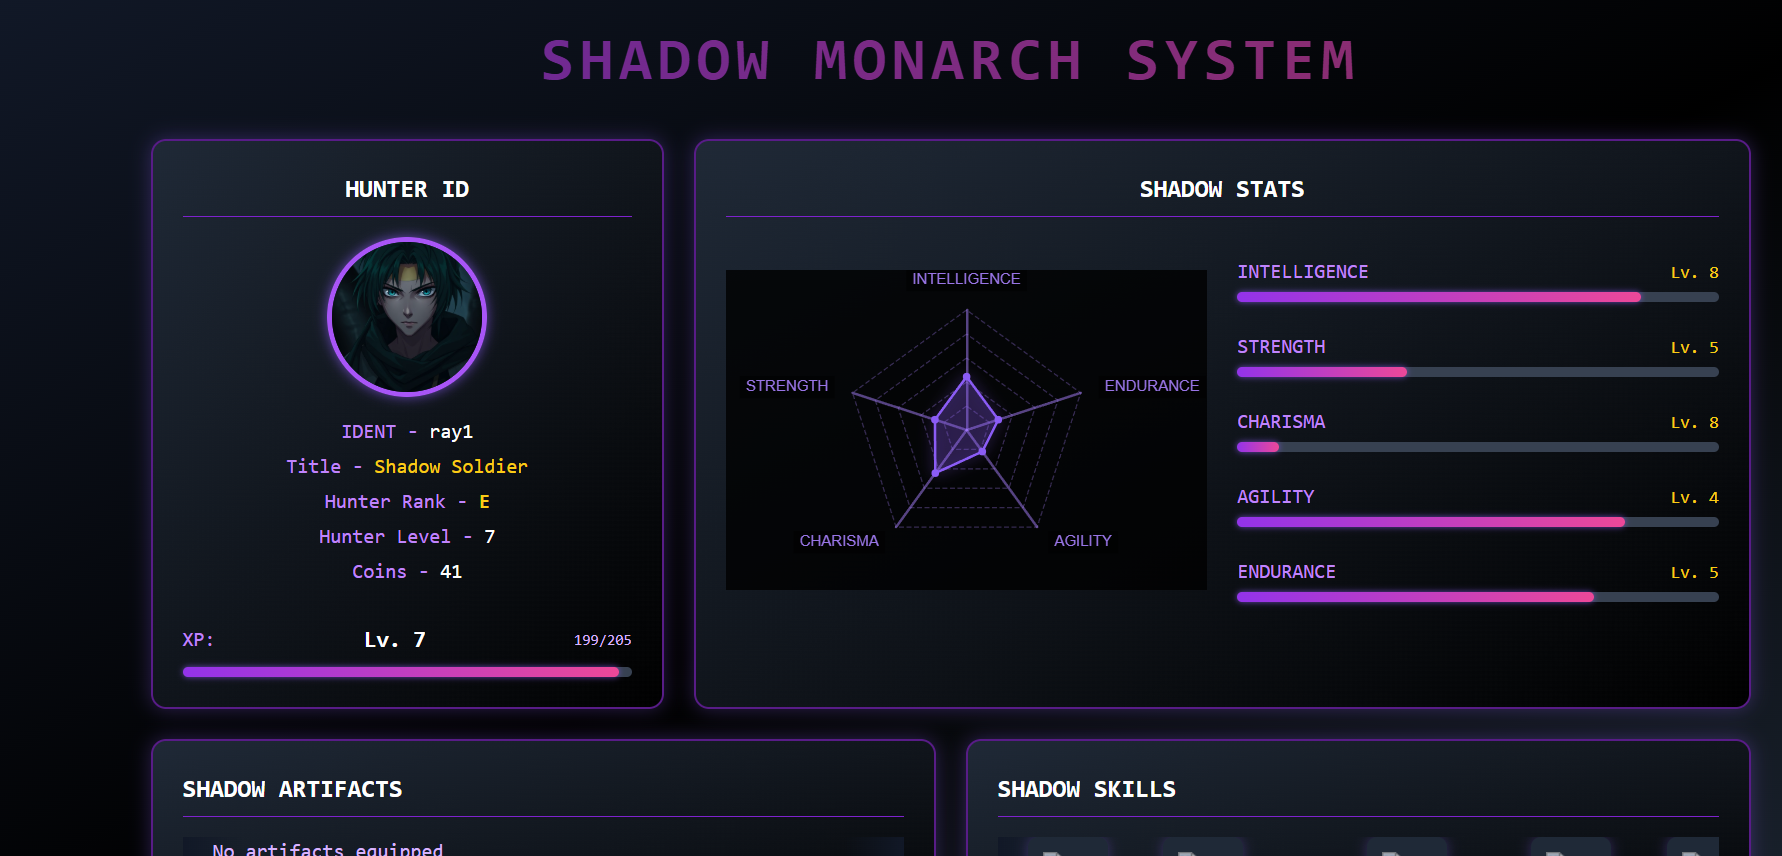
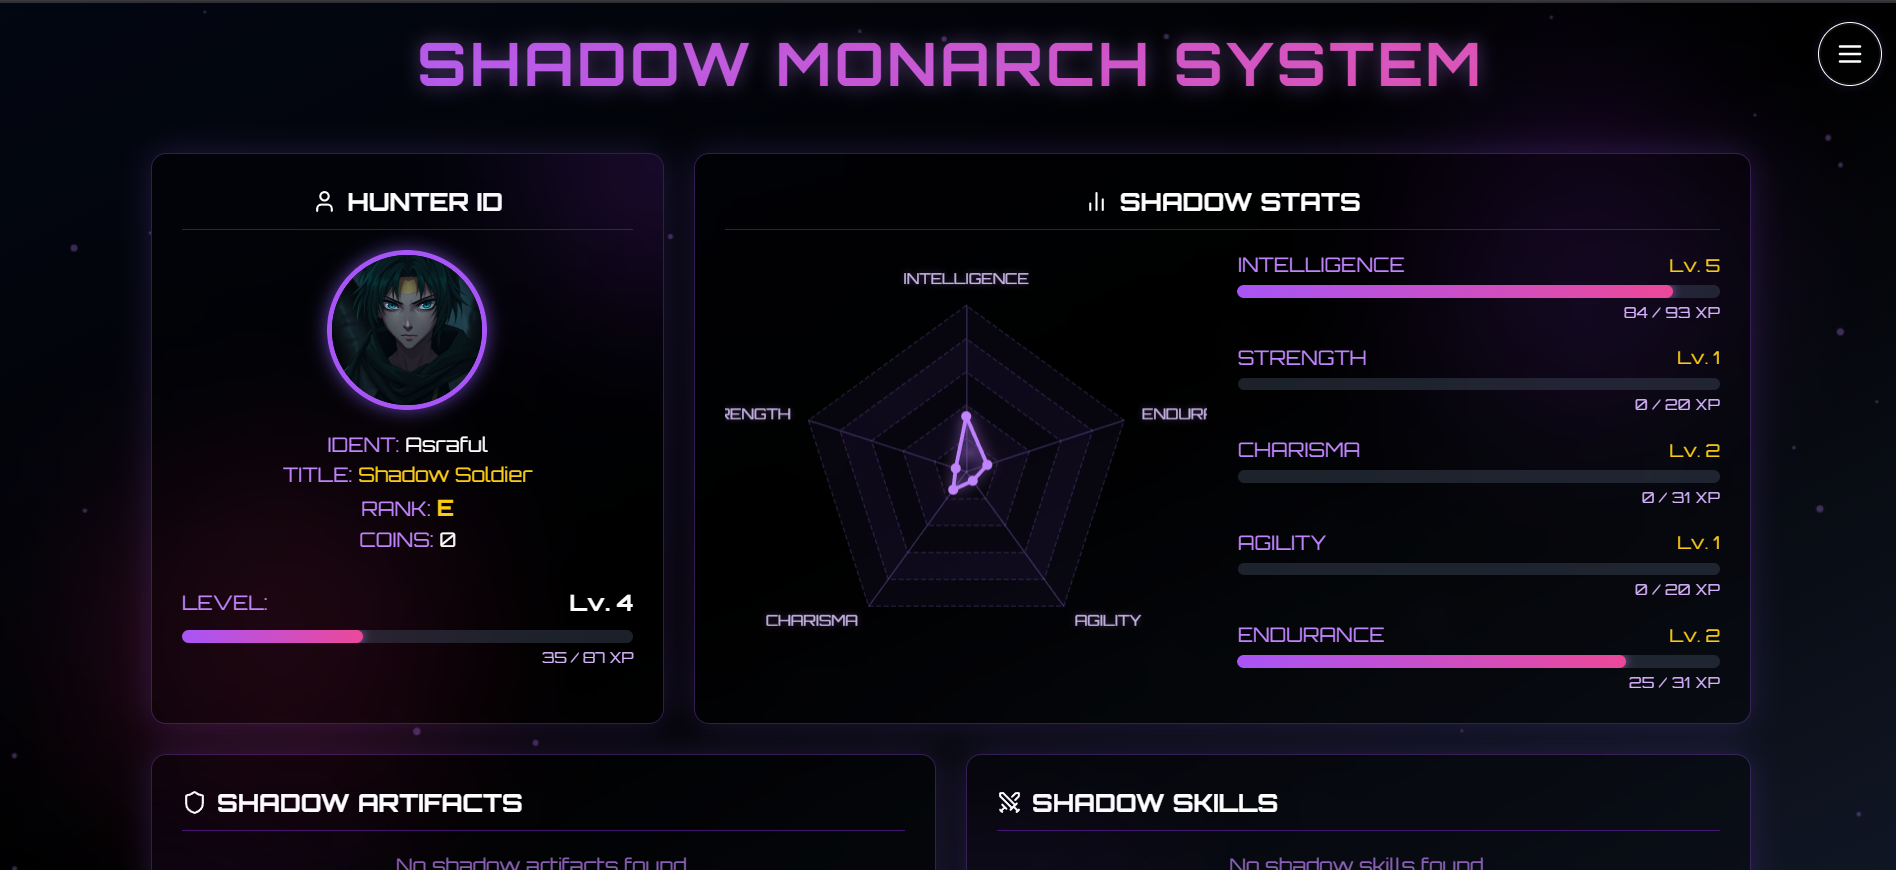
v4.0

diff --git a/Client/src/pages/Dashboard.jsx b/Client/src/pages/Dashboard.jsx
@@ -1,7 +1,7 @@
 import React, { useEffect, useRef, useMemo, useState } from "react";
 import * as echarts from "echarts";
 import { motion, AnimatePresence } from "framer-motion";
-import { Loader2, AlertTriangle, User, BarChart2, Shield, Swords } from 'lucide-react';
+import { Loader2, AlertTriangle, User, BarChart2, Shield, Swords, Pencil } from 'lucide-react';
 import { statLevelThresholds, userLevelThresholds } from "../utils/levelling";
 
 import AuthLayout from "../components/AuthLayout";
@@ -89,17 +89,22 @@ const ProgressBar = ({ value, max }) => {
 };
 
 // 3. Hunter Profile Card
-const HunterProfile = ({ user }) => (
+const HunterProfile = ({ user, onEdit }) => (
   <motion.div
     variants={{ hidden: { opacity: 0, y: 50 }, visible: { opacity: 1, y: 0 } }}
     className="bg-black/30 backdrop-blur-md rounded-xl p-6 shadow-[0_0_25px_rgba(139,92,246,0.2)] border border-purple-500/30 relative overflow-hidden"
   >
     <div className="absolute -top-1/4 -right-1/4 w-1/2 h-1/2 bg-purple-600/20 rounded-full blur-3xl"></div>
-    <h2 className="text-xl text-center font-semibold mb-4 border-b border-purple-700/50 pb-2 flex items-center justify-center gap-2"><User size={20} /> HUNTER ID</h2>
+    <h2 className="text-xl text-center font-semibold mb-4 border-b border-purple-700/50 pb-2 flex items-center justify-center gap-2 relative">
+      <User size={20} /> HUNTER ID
+      <button onClick={onEdit} className="absolute right-0 top-0 text-purple-300 hover:text-white transition-colors" title="Edit Profile">
+        <Pencil size={18} />
+      </button>
+    </h2>
     <div className="flex flex-col items-center mb-6 relative z-10">
       <div className="w-32 h-32 rounded-full overflow-hidden border-4 border-purple-500 shadow-[0_0_15px_rgba(139,92,246,0.7)] mb-4 transform hover:scale-105 transition-transform duration-300">
         <img
-          src="https://readdy.ai/api/search-image?query=Anime%20style%20portrait%20of%20a%20mysterious%20hunter%20with%20dark%20green%20hair%20and%20intense%20eyes%2C%20looking%20directly%20at%20viewer%20with%20a%20serious%20expression%2C%20dark%20atmospheric%20background%20with%20subtle%20shadows%2C%20high%20quality%20digital%20art&width=300&height=300&seq=1&orientation=squarish"
+          src={user?.avatar || "https://readdy.ai/api/search-image?query=Anime%20style%20portrait%20of%20a%20mysterious%20hunter%20with%20dark%20green%20hair%20and%20intense%20eyes%2C%20looking%20directly%20at%20viewer%20with%20a%20serious%20expression%2C%20dark%20atmospheric%20background%20with%20subtle%20shadows%2C%20high%20quality%20digital%20art&width=300&height=300&seq=1&orientation=squarish"}
           alt="Shadow Monarch Avatar"
           className="w-full h-full object-cover object-top"
           onError={(e) => { e.target.onerror = null; e.target.src = 'https://placehold.co/300x300/1a1a1a/c084fc?text=Hunter'; }}
@@ -107,7 +112,7 @@ const HunterProfile = ({ user }) => (
       </div>
       <div className="text-center">
         <p><span className="text-purple-400">IDENT:</span> {user?.username || 'N/A'}</p>
-        <p><span className="text-purple-400">TITLE:</span> <span className="text-yellow-400">{user?.titles?.[0] || "Shadow Soldier"}</span></p>
+  <p><span className="text-purple-400">TITLE:</span> <span className="text-yellow-400">{user?.activeTitle || user?.titles?.[0] || "Shadow Soldier"}</span></p>
         <p><span className="text-purple-400">RANK:</span> <span className="text-yellow-400 font-bold text-lg">{user?.rank || 'E'}</span></p>
         <p><span className="text-purple-400">COINS:</span> {user?.coins || 0}</p>
       </div>
@@ -262,6 +267,51 @@ const InventorySection = ({ title, items, icon: Icon, type }) => (
 const Dashboard = () => {
   
     const user = useUserStore((state) => state.user);
+    const setUser = useUserStore(s=>s.setUser);
+    const updateCoin = useUserStore(s=>s.updateCoin);
+    const [editing,setEditing]=useState(false);
+    const [availableTitles,setAvailableTitles]=useState([]);
+    const [pendingTitle,setPendingTitle]=useState('');
+    const [uploading,setUploading]=useState(false);
+    const [tempAvatar,setTempAvatar]=useState('');
+
+    const openEdit=async()=>{
+      setEditing(true);
+      try{
+        const res = await fetch(`${import.meta.env.VITE_SERVER_URL || ''}/titles`,{ credentials:'include'});
+        const data = await res.json();
+        setAvailableTitles(data.titles||[]);
+        setPendingTitle(user?.activeTitle || user?.titles?.[0] || '');
+      }catch(e){/* ignore */}
+    };
+
+    const handleUpload = async (file)=>{
+      setUploading(true);
+      try{
+        const form = new FormData();
+        form.append('file', file);
+        form.append('upload_preset', import.meta.env.VITE_CLOUDINARY_PRESET || 'unsigned');
+        const cloud = import.meta.env.VITE_CLOUDINARY_CLOUD;
+        const resp = await fetch(`https://api.cloudinary.com/v1_1/${cloud}/image/upload`,{ method:'POST', body: form });
+        const json = await resp.json();
+        if(json.secure_url){
+          setTempAvatar(json.secure_url);
+        }
+      }catch(err){ console.error('Upload failed', err); }
+      finally{ setUploading(false);} }
+
+  const saveProfile = async()=>{
+      try{
+        const body = { activeTitle: pendingTitle };
+        if(tempAvatar) body.avatar = tempAvatar;
+    const endpoint = import.meta.env.VITE_SERVER_URL ? `${import.meta.env.VITE_SERVER_URL}/graphql` : '/graphql';
+    const res = await fetch(endpoint,{ method:'POST', headers:{'Content-Type':'application/json'}, credentials:'include', body: JSON.stringify({ query:`mutation Update($activeTitle:String, $avatar:String){ updateProfile(activeTitle:$activeTitle, avatar:$avatar){ username activeTitle titles avatar coins level xp rank } }`, variables: body })});
+        const out = await res.json();
+        if(out.data?.updateProfile){
+          setUser({ ...user, ...out.data.updateProfile });
+          setEditing(false);
+        }
+      }catch(e){ console.error(e);} }
    const isLoading=false;
    const error =false;
   // Memoize stats array to prevent re-creation on every render
@@ -315,13 +365,52 @@ const Dashboard = () => {
           animate="visible"
         >
           <div className="grid grid-cols-1 lg:grid-cols-3 gap-6">
-            <HunterProfile user={user} />
+            <HunterProfile user={user} onEdit={openEdit} />
             <StatsDisplay user={user} stats={stats} />
           </div>
           <div className="grid grid-cols-1 lg:grid-cols-2 gap-6">
             <InventorySection title="SHADOW ARTIFACTS" items={user?.equiments || []} icon={Shield} type="arti" />
             <InventorySection title="SHADOW SKILLS" items={user?.skills || []} icon={Swords} type="skill" />
           </div>
+          {editing && (
+            <div className="fixed inset-0 bg-black/70 backdrop-blur-sm flex items-center justify-center z-50 p-4">
+              <div className="w-full max-w-lg bg-gray-950/90 border border-purple-500/40 rounded-xl p-6 space-y-4">
+                <div className="flex justify-between items-center mb-2">
+                  <h3 className="text-lg font-semibold text-purple-200 tracking-wide">Edit Hunter Profile</h3>
+                  <button onClick={()=>setEditing(false)} className="text-purple-400 hover:text-white">✕</button>
+                </div>
+                <div>
+                  <p className="text-xs uppercase tracking-wide text-purple-400 mb-1">Active Title</p>
+                  <div className="max-h-40 overflow-y-auto space-y-1 pr-1">
+                    {availableTitles.map(t=> (
+                      <button key={t.name} onClick={()=>t.unlocked && setPendingTitle(t.name)} className={`w-full text-left px-3 py-2 rounded-md text-sm border ${pendingTitle===t.name? 'border-pink-500 bg-pink-500/10':'border-purple-500/20'} ${t.unlocked? 'hover:border-pink-400':'opacity-40 cursor-not-allowed'}`}> 
+                        <span className="text-purple-200">{t.name}</span>
+                        <span className="text-[10px] ml-2 text-purple-400">Tier {t.tier}</span>
+                        {!t.unlocked && <span className="text-[10px] ml-2 text-yellow-400">LOCKED</span>}
+                      </button>
+                    ))}
+                  </div>
+                </div>
+                <div>
+                  <p className="text-xs uppercase tracking-wide text-purple-400 mb-1">Profile Image</p>
+                  <div className="flex items-center gap-4">
+                    <div className="w-20 h-20 rounded-full overflow-hidden border-2 border-purple-500">
+                      <img src={tempAvatar || user?.avatar || 'https://placehold.co/100x100/1a1a1a/c084fc?text=H'} className="w-full h-full object-cover" />
+                    </div>
+                    <label className="text-xs bg-gradient-to-r from-purple-600 to-pink-500 px-3 py-2 rounded-md cursor-pointer hover:from-purple-500 hover:to-pink-400 text-white shadow">
+                      {uploading? 'Uploading...' : 'Upload Image'}
+                      <input type="file" className="hidden" accept="image/*" onChange={e=> e.target.files && handleUpload(e.target.files[0])} />
+                    </label>
+                  </div>
+                  <p className="text-[10px] mt-1 text-purple-400">Uses Cloudinary unsigned upload preset.</p>
+                </div>
+                <div className="flex justify-end gap-3 pt-2">
+                  <button onClick={()=>setEditing(false)} className="px-4 py-2 text-sm rounded-md bg-gray-700 hover:bg-gray-600 text-white">Cancel</button>
+                  <button onClick={saveProfile} disabled={uploading} className="px-5 py-2 text-sm rounded-md bg-gradient-to-r from-purple-600 to-pink-500 hover:from-purple-500 hover:to-pink-400 text-white disabled:opacity-50">Save</button>
+                </div>
+              </div>
+            </div>
+          )}
         </motion.div>
       );
     }

diff --git a/Server/Controllers/titleController.js b/Server/Controllers/titleController.js
@@ -1,3 +1,112 @@
-// controllers/titleController.js
-// - unlockTitle
-// - getAvailableTitles
+import { Title } from '../Models/title.js';
+import { User } from '../Models/user.js';
+import { Tracker } from '../Models/tracker.js';
+
+// Evaluate if a user meets all requirements of a title
+function meetsRequirements(user, title){
+	if(!title.requirements || title.requirements.length===0) return true;
+	const statTotals = Object.values(user.stats || {}).reduce((a,s)=>a + (s?.value||0) + ((s?.level||1)-1)*0,0); // simple total value metric
+	return title.requirements.every(r=>{
+		switch(r.type){
+			case 'level': return user.level >= r.value;
+			case 'missionsCompleted': return (user.completed_trackers?.length||0) >= r.value;
+					case 'streak':
+						return Array.isArray(user.trackersData) && user.trackersData.some(t=> (t.streak||0) >= r.value);
+			case 'coins': return user.coins >= r.value;
+			case 'statTotal':
+				if(r.stat){
+					return (user.stats?.[r.stat]?.value||0) >= r.value;
+				}
+				return statTotals >= r.value;
+			case 'statLevel':
+				if(!r.stat) return false; return (user.stats?.[r.stat]?.level||1) >= r.value;
+			case 'rank':
+				const order=['E','D','C','B','A','S'];
+				return order.indexOf(user.rank)>=order.indexOf(r.value);
+			default: return false;
+		}
+	});
+}
+
+export const listTitles = async (req,res)=>{
+	try {
+		const titles = await Title.find({ hidden:false }).sort({ tier:1 });
+		const user = await User.findById(req.user.id).lean();
+		const trackerDocs = await Tracker.find({ userId: req.user.id }, 'streak');
+		user.trackersData = trackerDocs;
+		const unlocked = new Set(user.titles||[]);
+		const enriched = titles.map(t=>({
+			id: t._id,
+			name: t.name,
+			tier: t.tier,
+			group: t.group,
+			flavor: t.flavor,
+			icon: t.icon,
+			requirements: t.requirements,
+			unlocked: unlocked.has(t.name) || meetsRequirements(user,t)
+		}));
+		res.json({ titles: enriched });
+	} catch(e){
+		res.status(500).json({ message:'Failed to list titles'});
+	}
+};
+
+export const unlockEligibleTitles = async (req,res)=>{
+	try {
+		const user = await User.findById(req.user.id);
+		const titles = await Title.find({});
+		let added=[];
+		for(const t of titles){
+			if(!user.titles.includes(t.name) && meetsRequirements(user,t)){
+				user.titles.push(t.name);
+				added.push(t.name);
+			}
+		}
+		if(added.length>0) await user.save();
+		res.json({ unlocked: added, titles: user.titles });
+	} catch(e){
+		res.status(500).json({ message:'Failed to unlock titles'});
+	}
+};
+
+export const equipTitle = async (req,res)=>{
+	try {
+		const { name } = req.body;
+		const user = await User.findById(req.user.id);
+		if(!user.titles.includes(name)) return res.status(400).json({ message:'Title not unlocked' });
+		// Move equipped title to index 0
+		user.titles = [name, ...user.titles.filter(t=>t!==name)];
+		user.activeTitle = name;
+		await user.save();
+		res.json({ activeTitle: name, titles: user.titles });
+	} catch(e){
+		res.status(500).json({ message:'Failed to equip title'});
+	}
+};
+
+// Seed default titles if empty (can be invoked manually)
+export const seedDefaultTitles = async (req,res)=>{
+	const defaults=[
+		{ name:'Novice Hunter', tier:1, flavor:'Just starting the path.', requirements:[{type:'level', value:1}] },
+		{ name:'Apprentice of Shadows', tier:1, flavor:'Completed 3 missions.', requirements:[{type:'missionsCompleted', value:3}] },
+		{ name:'Iron Challenger', tier:2, flavor:'Reach level 5.', requirements:[{type:'level', value:5}] },
+		{ name:'Streak Adept', tier:2, flavor:'Maintain a 5 day streak.', requirements:[{type:'streak', value:5}] },
+		{ name:'Coin Hoarder', tier:2, flavor:'Accumulate 200 coins.', requirements:[{type:'coins', value:200}] },
+		{ name:'Stat Specialist (Strength)', tier:3, flavor:'Reach Strength level 10.', requirements:[{type:'statLevel', stat:'strength', value:10}] },
+		{ name:'Rising Monarch', tier:3, flavor:'Reach rank C.', requirements:[{type:'rank', value:'C'}] },
+		{ name:'Shadow Strategist', tier:3, flavor:'Total INT stat value 500.', requirements:[{type:'statTotal', stat:'intelligence', value:500}] },
+		{ name:'Relentless', tier:4, flavor:'Complete 15 missions.', requirements:[{type:'missionsCompleted', value:15}] },
+		{ name:'Arcane Ascendant', tier:4, flavor:'Reach level 20.', requirements:[{type:'level', value:20}] },
+		{ name:'Unbroken Chain', tier:4, flavor:'Maintain a 20 day streak.', requirements:[{type:'streak', value:20}] },
+		{ name:'Shadow Monarch', tier:5, flavor:'Rank A and Level 35.', requirements:[{type:'rank', value:'A'},{type:'level', value:35}] },
+	];
+	try {
+		const count = await Title.countDocuments();
+		if(count===0){
+			await Title.insertMany(defaults);
+		}
+		res.json({ seeded:true, count: await Title.countDocuments() });
+	} catch(e){
+		res.status(500).json({ message:'Seed failed'});
+	}
+};

diff --git a/Server/Models/title.js b/Server/Models/title.js
@@ -1,7 +1,18 @@
 import mongoose from "mongoose";
 
+const requirementSchema = new mongoose.Schema({
+  type: { type: String, enum: ['level','statTotal','missionsCompleted','streak','coins','statLevel','rank'], required: true },
+  stat: { type: String }, // for statTotal/statLevel
+  value: { type: Number, required: true }
+},{ _id:false });
+
 const titleSchema = new mongoose.Schema({
-  name: String,
-  unlockCondition: String
+  name: { type: String, unique: true },
+  tier: { type: Number, default: 1 }, // higher = rarer
+  group: { type: String, default: 'General' },
+  flavor: { type: String },
+  requirements: [requirementSchema],
+  icon: { type: String },
+  hidden: { type: Boolean, default: false }
 });
 export const Title = mongoose.model('Title', titleSchema);

diff --git a/Server/Models/user.js b/Server/Models/user.js
@@ -32,6 +32,7 @@ const userSchema = new mongoose.Schema({
   coins: { type: Number, default: 0 },
   totalMission: { type: Number, default: 0 },
   titles: [String],
+  activeTitle: { type: String },
   achievements: [String],
   skills: [{ type: mongoose.Schema.Types.ObjectId, ref: 'Skill' }],
   equiments: [{ type: mongoose.Schema.Types.ObjectId, ref: 'Equipment' }],
@@ -39,6 +40,7 @@ const userSchema = new mongoose.Schema({
   trackers: [{ type: mongoose.Schema.Types.ObjectId, ref: 'Tracker' }],
   completed_trackers: [{ type: mongoose.Schema.Types.ObjectId, ref: 'Tracker' }],
   sidequests: [{ type: mongoose.Schema.Types.ObjectId, ref: 'Sidequest' }]
+  ,avatar: { type: String }
 });
 
 export const User = mongoose.model('User', userSchema);

diff --git a/Server/graphql/resolvers.js b/Server/graphql/resolvers.js
@@ -98,6 +98,21 @@ export const resolvers = {
         await user.save();
       }
       return sq; // client can refetch user to show updated stats
+    },
+    updateProfile: async (_,{ activeTitle, avatar }, { user }) => {
+      if(!user) throw new Error('Unauthorized');
+      const doc = await User.findById(user._id);
+      if(activeTitle){
+        if(!doc.titles.includes(activeTitle)) throw new Error('Title not unlocked');
+        doc.activeTitle = activeTitle;
+        // ensure ordering (active first)
+        doc.titles = [activeTitle, ...doc.titles.filter(t=>t!==activeTitle)];
+      }
+      if(avatar){
+        doc.avatar = avatar;
+      }
+      await doc.save();
+      return doc;
     }
   },
   User: {

diff --git a/Server/index.js b/Server/index.js
@@ -17,6 +17,7 @@ import skillRoutes from './Routes/skillRoutes.js'
 import equimentRoutes from './Routes/equimentRoutes.js'
 import { evaluateRankAscension } from './Controllers/equimentController.js';
 import sidequestRoutes from './Routes/sidequestRoutes.js';
+import titleRoutes from './Routes/titleRoutes.js';
 const app=express();
  
 
@@ -63,6 +64,7 @@ app.use('/tracker',isAuthenticated,trackerRoutes);
 app.use('/skill',isAuthenticated,skillRoutes);
 app.use('/inventory',isAuthenticated,equimentRoutes);
 app.use('/sidequest', isAuthenticated, sidequestRoutes);
+app.use('/titles', isAuthenticated, titleRoutes);
 
 app.post('/set-cookie', (req, res) => {
     res.cookie('token', req.body.token, {

diff --git a/Server/graphql/typeDefs.js b/Server/graphql/typeDefs.js
@@ -85,6 +85,8 @@ export const typeDefs = gql`
     coins: Int
     totalMission: Int
     titles: [String]
+  activeTitle: String
+  avatar: String
     achievements: [String]
     current_missions: [ID]
     completed_trackers:[Tracker]
@@ -168,5 +170,6 @@ export const typeDefs = gql`
   type Mutation {
     createSidequest(input: CreateSidequestInput!): Sidequest
     completeSidequest(id: ID!): Sidequest
+  updateProfile(activeTitle: String, avatar: String): User
   }
 `;

diff --git a/Server/Routes/titleRoutes.js b/Server/Routes/titleRoutes.js
@@ -1,0 +1,11 @@
+import express from 'express';
+import { listTitles, unlockEligibleTitles, equipTitle, seedDefaultTitles } from '../Controllers/titleController.js';
+
+const router = express.Router();
+
+router.get('/', listTitles);
+router.post('/unlock', unlockEligibleTitles);
+router.post('/equip', equipTitle);
+router.post('/seed', seedDefaultTitles);
+
+export default router;

diff --git a/Client/src/graphql/query.js b/Client/src/graphql/query.js
@@ -4,6 +4,8 @@ export const GET_USER = gql`
   query {
     getUser {
       username
+  avatar
+  activeTitle
       level
       coins
       titles
